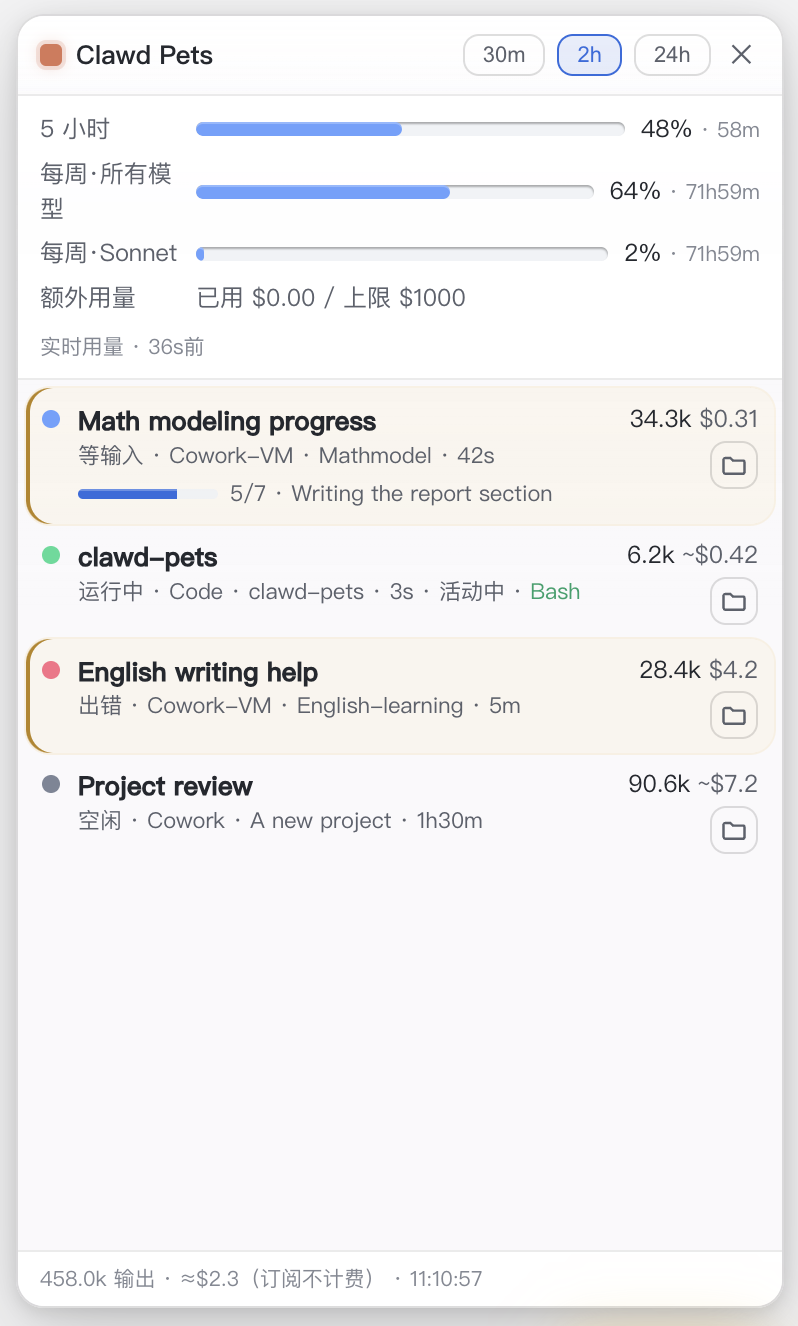
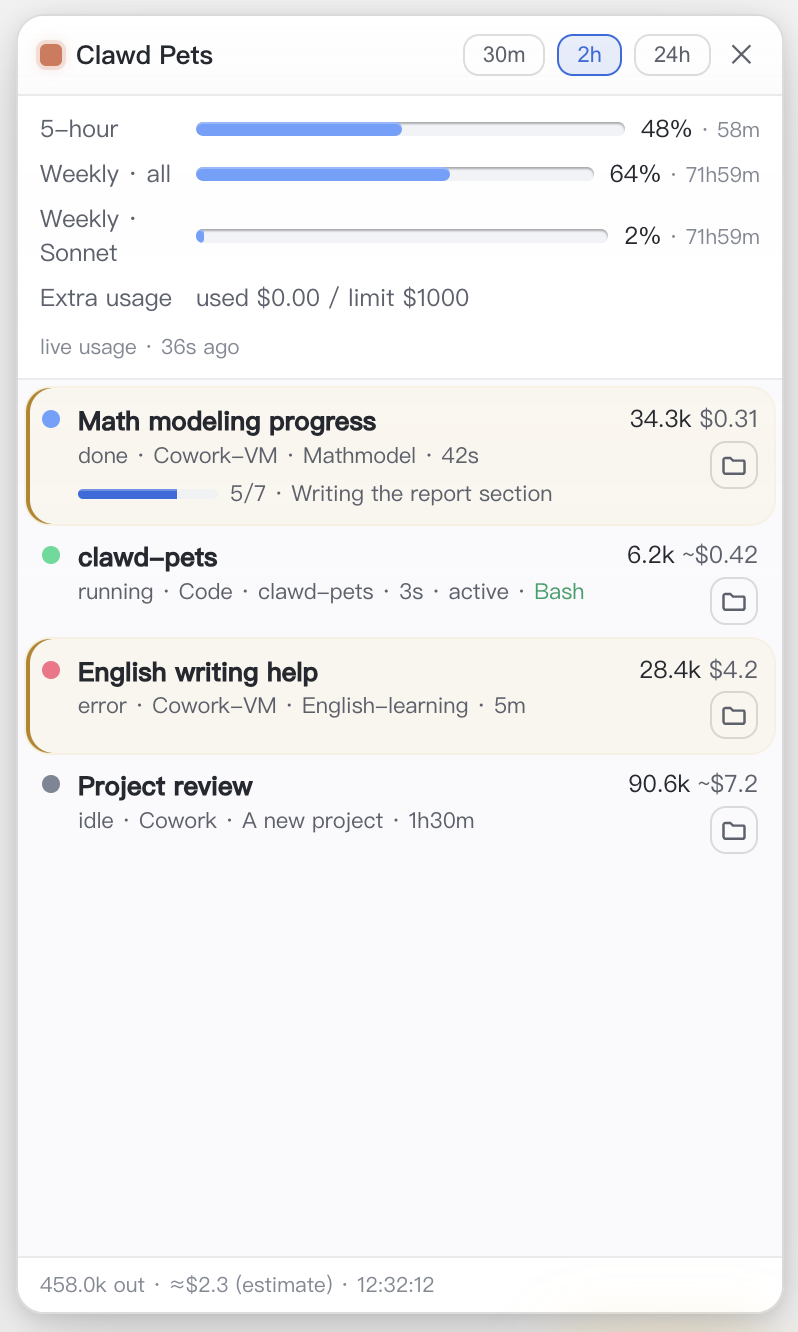
i18n: English-default UI (auto-switches to Chinese on zh systems); regenerate English demo assets
Resolves the English-README / Chinese-UI mismatch. New src/renderer/i18n.js holds EN+ZH strings; locale = navigator.language (renderer) / app.getLocale() (main), defaulting to English and switching to Chinese only on zh-* systems (?lang= overrides for asset generation). All user-visible strings in renderer.js, index.html and main.js (state labels, bubbles, panel, quota, footer, tray menu, tooltips, notifications) now route through the dictionary. demo.gif and panel.png regenerated in English so the international-facing README is consistent; Chinese users (incl. the maintainer) still get a fully Chinese UI automatically.

diff --git a/src/renderer/renderer.js b/src/renderer/renderer.js
@@ -44,29 +44,29 @@ function petAnim(frames, opts) { if (motionOff) return; const m = $('#mascot'); 
 function reactCelebrate() { petAnim([{ transform: 'translateY(0)' }, { transform: 'translateY(-14px)' }, { transform: 'translateY(0)' }, { transform: 'translateY(-6px)' }, { transform: 'translateY(0)' }], { duration: 640, easing: 'cubic-bezier(.3,1.5,.5,1)' }); }
 function reactWiggle() { petAnim([{ transform: 'rotate(0)' }, { transform: 'rotate(-5deg)' }, { transform: 'rotate(4deg)' }, { transform: 'rotate(-2deg)' }, { transform: 'rotate(0)' }], { duration: 440, easing: 'ease-out' }); }
 
-function phaseVerb(tool) {   // 工具名 → 人话阶段
-  if (!tool || tool === '-') return '处理中';
+function phaseVerb(tool) {   // 工具名 → 人话阶段（i18n）
+  if (!tool || tool === '-') return T.phaseDefault;
   tool = String(tool).replace(/^mcp__[a-z0-9]+__/i, '').replace(/^mcp__/i, '');   // 去掉 mcp 前缀
   const t = tool.toLowerCase();
-  if (/bash|shell|command|exec|\brun\b/.test(t)) return '运行命令';
-  if (/edit|write|create|apply|patch|str_replace|notebook/.test(t)) return '写改动';
-  if (/read|grep|glob|^ls|cat|search/.test(t)) return '读取/检索';
-  if (/test|pytest|jest|vitest/.test(t)) return '跑测试';
-  if (/web|fetch|http|browser|preview|screenshot|snapshot|navigate|click|fill/.test(t)) return '联网/浏览';
-  if (/todo|plan/.test(t)) return '整理计划';
+  if (/bash|shell|command|exec|\brun\b/.test(t)) return T.phaseRun;
+  if (/edit|write|create|apply|patch|str_replace|notebook/.test(t)) return T.phaseEdit;
+  if (/read|grep|glob|^ls|cat|search/.test(t)) return T.phaseRead;
+  if (/test|pytest|jest|vitest/.test(t)) return T.phaseTest;
+  if (/web|fetch|http|browser|preview|screenshot|snapshot|navigate|click|fill/.test(t)) return T.phaseWeb;
+  if (/todo|plan/.test(t)) return T.phasePlan;
   return tool;
 }
 function bubbleSpec(r) {
-  const T = r.title;
+  const nm = r.title;
   switch (r.state.key) {
-    case 'ERROR': return { icon: 'error', text: `${T} 出错了`, cls: 'b-err', persistent: true };
-    case 'RATE': return { icon: 'rate', text: `${T} 触发限流，等额度恢复`, cls: 'b-err', persistent: true };
-    case 'WAIT': return { icon: 'wait', text: `${T} 在等你确认`, cls: 'b-wait', persistent: true };
-    case 'AWAITING': return { icon: 'done', text: `${T} 完成`, cls: 'b-done', persistent: false, linger: 6500 };   // 完成：短驻后离栈
+    case 'ERROR': return { icon: 'error', text: T.bErr(nm), cls: 'b-err', persistent: true };
+    case 'RATE': return { icon: 'rate', text: T.bRate(nm), cls: 'b-err', persistent: true };
+    case 'WAIT': return { icon: 'wait', text: T.bWait(nm), cls: 'b-wait', persistent: true };
+    case 'AWAITING': return { icon: 'done', text: T.bDone(nm), cls: 'b-done', persistent: false, linger: 6500 };   // 完成：短驻后离栈
     case 'RUNNING': {
       const act = r.activity || (r.tool ? phaseVerb(r.tool) : null);        // 工具动作：Bash 描述 / 读取文件名 / 检索…
-      const primary = r.think || act || '思考中…';                          // 主行=当前思考叙述(其次工具动作)
-      const sub = (act && r.think) ? `${T} · ${act}` : T;                   // 副行=任务名(· 工具动作)
+      const primary = r.think || act || T.think;                            // 主行=当前思考叙述(其次工具动作)
+      const sub = (act && r.think) ? `${nm} · ${act}` : nm;                 // 副行=任务名(· 工具动作)
       return { icon: r.tool ? 'working' : 'thinking', text: primary, sub, cls: r.tool ? 'b-run' : 'b-think', persistent: true };   // 运行：常驻 live 行，随思考/活动原地更新
     }
   }
@@ -144,7 +144,7 @@ function computeDesired(d) {   // 算出当前该显示哪些行（每个 speaka
   if (cand.length > MAX_ROWS) {
     const head = cand.slice(0, MAX_ROWS - 1), dropped = cand.slice(MAX_ROWS - 1);
     for (const x of dropped) if (isShort(x.spec)) dismissed.set(x.key, x.sig);   // 被挤进折叠的短驻行视作已播，避免腾位后重弹
-    head.push({ key: '__more__', weight: -1, spec: { icon: 'folder', text: `还有 ${dropped.length} 个进行中`, cls: 'b-more', persistent: true }, sig: '__more__:' + dropped.length });
+    head.push({ key: '__more__', weight: -1, spec: { icon: 'folder', text: T.more(dropped.length), cls: 'b-more', persistent: true }, sig: '__more__:' + dropped.length });
     return head;
   }
   return cand;
@@ -330,12 +330,19 @@ if (window.api && window.api.setIgnore) {
 document.querySelectorAll('.chip').forEach((c) =>
   c.addEventListener('click', () => window.api.setWindow(Number(c.dataset.win))));
 
+(function initI18n() {   // 用所选语言覆盖 index.html 里的静态英文默认（zh 系统→中文）
+  const rl = document.querySelector('#rl-line .lbl'); if (rl) rl.textContent = T.rlLabel;
+  const c = $('#collapse'); if (c) c.title = T.tCollapse;
+  const m = $('#stack-min'); if (m) { m.title = T.tMinimize; m.setAttribute('aria-label', T.tMinimize); }
+  const g = $('#resize-grip'); if (g) g.title = T.tResize;
+})();
+
 function renderPet(d) {
   taskMood = d.mascot; applyMood();
   const b = $('#badge');
   if (d.needsCount > 0) { b.textContent = d.needsCount; b.classList.add('show'); }
   else b.classList.remove('show');
-  $('#pet').title = `${d.rows.length} 个会话 · ${d.needsCount} 需要你 · 出 ${fmtN(d.agg.out)} tok`;
+  $('#pet').title = T.petTitle(d.rows.length, d.needsCount, fmtN(d.agg.out));
 }
 
 function renderPanel(d) {
@@ -346,7 +353,7 @@ function renderPanel(d) {
 
   // 任务列表
   const ul = $('#tasks'); ul.innerHTML = '';
-  if (!d.rows.length) { ul.innerHTML = '<li class="empty">窗口内无活跃会话</li>'; }
+  if (!d.rows.length) { ul.innerHTML = `<li class="empty">${esc(T.empty)}</li>`; }
   for (const r of d.rows) {
     const li = document.createElement('li');
     li.className = 'task' + (r.attention ? ' attn' : '');
@@ -359,29 +366,29 @@ function renderPanel(d) {
     li.innerHTML =
       `<span class="sdot" style="background:${color}"></span>`
       + `<div class="t-main"><div class="t-title">${esc(r.title)}</div>`
-      + `<div class="t-meta">${r.state.label} · ${esc(r.src)} · ${esc(r.projectShort)} · ${fmtIdle(r.idleSec)}${r.live ? ' · 活动中' : ''}${r.stale ? ' · 久未处理' : ''}${toolTxt}</div>${todo}</div>`
+      + `<div class="t-meta">${esc(T.state[r.state.key] || r.state.label)} · ${esc(r.src)} · ${esc(r.projectShort)} · ${fmtIdle(r.idleSec)}${r.live ? ' · ' + esc(T.active) : ''}${r.stale ? ' · ' + esc(T.stale) : ''}${toolTxt}</div>${todo}</div>`
       + `<div class="t-right"><div class="t-usage">${fmtN(r.usage.out)} <span class="dim">${fmtCost(r.usage.cost, r.usage.costReal)}</span></div>`
-      + `${r.project ? `<button class="openbtn" title="打开项目目录">${ICONS.folder}</button>` : ''}</div>`;
+      + `${r.project ? `<button class="openbtn" title="${esc(T.openDir)}">${ICONS.folder}</button>` : ''}</div>`;
     if (r.project) li.querySelector('.openbtn').addEventListener('click', () => window.api.openPath(r.project));
     ul.appendChild(li);
   }
   // 聚合用量挪到底部、次要呈现（成本仅按单价估算，订阅不计费）；实时用量失败也只在此低调提示
   const liveFail = d.quota && !d.quota.ok;
-  $('#panel-foot').textContent = `${fmtN(d.agg.out)} 输出 · ≈${fmtCost(d.agg.cost, true)}（订阅不计费）`
-    + (liveFail ? ' · 实时用量未取到' : '') + ` · ${new Date(d.generatedAt).toLocaleTimeString()}`;
+  $('#panel-foot').textContent = `${fmtN(d.agg.out)} ${T.out} · ≈${fmtCost(d.agg.cost, true)} (${T.estimate})`
+    + (liveFail ? ' · ' + T.liveFail : '') + ` · ${new Date(d.generatedAt).toLocaleTimeString()}`;
 }
 
-const Q_BUCKETS = [['five_hour', '5 小时'], ['seven_day', '每周·所有模型'], ['seven_day_sonnet', '每周·Sonnet'], ['seven_day_opus', '每周·Opus'], ['seven_day_cowork', '每周·Cowork']];
+const Q_BUCKETS = ['five_hour', 'seven_day', 'seven_day_sonnet', 'seven_day_opus', 'seven_day_cowork'];   // 标签经 T.qb 本地化
 function qColor(u) { return u >= 90 ? '#fb6f86' : u >= 70 ? '#f5c451' : '#6aa1ff'; }   // 对齐 CSS --err/--warn/--accent
 function quotaAlert(d) {   // 返回最严重的 bucket（util≥90 才算告急），否则 null
   const q = d && d.quota; if (!q || !q.ok || !q.quota) return null;
   let worst = null;
-  for (const [k, label] of Q_BUCKETS) { const bk = q.quota[k]; if (bk && bk.util >= 90 && (!worst || bk.util > worst.util)) worst = { util: Math.round(bk.util), label, resetsAt: bk.resetsAt }; }
+  for (const k of Q_BUCKETS) { const bk = q.quota[k]; if (bk && bk.util >= 90 && (!worst || bk.util > worst.util)) worst = { util: Math.round(bk.util), label: T.qb[k], resetsAt: bk.resetsAt }; }
   return worst;
 }
 function quotaText(a) {
   const remain = a.resetsAt ? Date.parse(a.resetsAt) - Date.now() : 0;
-  return `${a.label}配额已用 ${a.util}%` + (remain > 0 ? ` · ${fmtIdle(remain / 1000)}后重置` : '');
+  return T.quotaUsed(a.label, a.util, remain > 0 ? fmtIdle(remain / 1000) : '');
 }
 function applyQuota(d) { app.dataset.quota = quotaAlert(d) ? 'critical' : ''; }   // 任一 bucket≥90% → 桌宠光晕转红
 function renderQuota(d) {
@@ -389,26 +396,26 @@ function renderQuota(d) {
   const q = d.quota;
   if (q && q.ok && q.quota) {                          // 实时配额条（最有用的视图）
     rl.style.display = 'none';
-    for (const [k, label] of Q_BUCKETS) {
+    for (const k of Q_BUCKETS) {
       const b = q.quota[k]; if (!b) continue;
       const u = Math.round(b.util);
       const remain = b.resetsAt ? Date.parse(b.resetsAt) - Date.now() : 0;
       box.insertAdjacentHTML('beforeend',
-        `<div class="q-row"><span class="qlbl">${label}</span>`
+        `<div class="q-row"><span class="qlbl">${esc(T.qb[k])}</span>`
         + `<div class="q-bar"><i style="width:${Math.min(100, u)}%;background:${qColor(u)}"></i></div>`
-        + `<span class="q-val">${u}%<span class="q-reset"> · ${remain > 0 ? fmtIdle(remain / 1000) : '重置'}</span></span></div>`);
+        + `<span class="q-val">${u}%<span class="q-reset"> · ${remain > 0 ? fmtIdle(remain / 1000) : T.reset}</span></span></div>`);
     }
     const ex = q.quota.extra_usage;
     if (ex && ex.is_enabled) box.insertAdjacentHTML('beforeend',
-      `<div class="q-row"><span class="qlbl">额外用量</span><span class="dim" style="grid-column:2/4">已用 $${(ex.used_credits || 0).toFixed(2)} / 上限 $${ex.monthly_limit}</span></div>`);
-    box.insertAdjacentHTML('beforeend', `<div class="q-reset" style="margin-top:3px">实时用量 · ${fmtIdle((Date.now() - q.fetchedAt) / 1000)}前</div>`);
-  } else if (d.rl) {                                   // 无实时配额条但有本地 5h 读数 → 只显这一行；不再有"未取到"长说明/"暂无读数"空行
+      `<div class="q-row"><span class="qlbl">${esc(T.extra)}</span><span class="dim" style="grid-column:2/4">${esc(T.used)} $${(ex.used_credits || 0).toFixed(2)} / ${esc(T.limit)} $${ex.monthly_limit}</span></div>`);
+    box.insertAdjacentHTML('beforeend', `<div class="q-reset" style="margin-top:3px">${esc(T.liveAge(fmtIdle((Date.now() - q.fetchedAt) / 1000)))}</div>`);
+  } else if (d.rl) {                                   // 无实时配额条但有本地 5h 读数 → 只显这一行
     rl.style.display = '';
     const ok = d.rl.status === 'allowed' && !d.rl.isUsingOverage;
     $('#rl-dot').className = 'dot ' + (ok ? 'ok' : 'warn');
     const remain = d.rl.resetsAt * 1000 - Date.now();
-    $('#rl-text').textContent = `${d.rl.status}${d.rl.isUsingOverage ? ' [超额]' : ''} · 重置 ${clock(d.rl.resetsAt)}`
-      + (remain > 0 ? ` (${fmtIdle(remain / 1000)})` : ' (已重置)');
+    $('#rl-text').textContent = `${d.rl.status}${d.rl.isUsingOverage ? ' [' + T.overage + ']' : ''} · ${T.reset} ${clock(d.rl.resetsAt)}`
+      + (remain > 0 ? ` (${fmtIdle(remain / 1000)})` : ` (${T.wasReset})`);
   } else {
     rl.style.display = 'none';
   }
@@ -435,7 +442,7 @@ if (window.api && window.api.onUpdate) {
     } },
     rows: [
       { key: '1', src: 'Cowork-VM', title: 'Math modeling progress', projectShort: 'Mathmodel', project: '/x', state: { key: 'AWAITING', label: '等输入' }, tool: null, idleSec: 42, live: false, attention: true, usage: { out: 34260, cost: 0.31, costReal: true }, todos: { total: 7, done: 5, current: 'Writing the report section' }, model: 'opus-4-8' },
-      { key: '2', src: 'Code', title: 'clawd-pets', projectShort: 'clawd-pets', project: '/y', state: { key: 'RUNNING', label: '运行中' }, tool: 'Bash', activity: 'Restart Electron and verify clean boot', think: '现在重构 renderer：单气泡 → 实时行栈，每任务一行显示其思考与活动', idleSec: 3, live: true, attention: false, usage: { out: 6170, cost: 0.42, costReal: false }, todos: null, model: 'opus-4-8' },
+      { key: '2', src: 'Code', title: 'clawd-pets', projectShort: 'clawd-pets', project: '/y', state: { key: 'RUNNING', label: '运行中' }, tool: 'Bash', activity: 'Restart Electron and verify clean boot', think: 'Refactoring renderer: single bubble → live status stack, one row per task', idleSec: 3, live: true, attention: false, usage: { out: 6170, cost: 0.42, costReal: false }, todos: null, model: 'opus-4-8' },
       { key: '3', src: 'Cowork-VM', title: 'English writing help', projectShort: 'English-learning', project: '/z', state: { key: 'ERROR', label: '出错' }, tool: null, idleSec: 300, live: false, attention: true, usage: { out: 28400, cost: 4.2, costReal: true }, todos: null, model: 'sonnet-4-6' },
       { key: '4', src: 'Cowork', title: 'Project review', projectShort: 'A new project', project: '/w', state: { key: 'IDLE', label: '空闲' }, tool: null, idleSec: 5400, live: false, attention: false, usage: { out: 90600, cost: 7.2, costReal: false }, todos: null, model: 'opus-4-8' },
     ],

diff --git a/src/main.js b/src/main.js
@@ -10,6 +10,33 @@ const store = require('./store');
 // 不因显示名带空格而分裂出两个设置目录。必须在 app ready 前调用。
 app.setName('clawd-pets');
 
+// 主进程 i18n：默认英文（面向国际），系统语言 zh-* → 中文。M 在 app ready 后按 app.getLocale() 选定。
+const TR = {
+  en: {
+    show: 'Show / Hide', range: 'Time range', last30: 'Last 30 min', last2h: 'Last 2 hours', last24h: 'Last 24 hours',
+    refresh: 'Refresh rate', fast: 'Fast (1.5s)', normal: 'Normal (3s)', power: 'Power saver (10s)',
+    size: 'Pet size', small: 'Small', medium: 'Medium', large: 'Large',
+    live: 'Live usage (network · keychain prompt on first use)',
+    notify: 'Notify on attention / error (off by default)',
+    motion: 'Motion (breathing / blink / gaze)', quit: 'Quit',
+    mood: { error: 'error', needs: 'needs you', working: 'running', thinking: 'thinking', done: 'done', idle: 'idle' },
+    tip: (mood, n, needs) => `Clawd Pets · ${mood} · ${n} sessions · ${needs} need you`,
+    nNeeds: '✋ Needs you', nErr: '🔴 Error', nRate: '⏳ Rate limited',
+  },
+  zh: {
+    show: '显示 / 隐藏', range: '窗口范围', last30: '最近 30 分钟', last2h: '最近 2 小时', last24h: '最近 24 小时',
+    refresh: '刷新频率', fast: '快 (1.5s)', normal: '正常 (3s)', power: '省电 (10s)',
+    size: '桌宠大小', small: '小', medium: '中', large: '大',
+    live: '实时用量 (联网·首次读钥匙串需授权)',
+    notify: '需要你/出错时弹系统通知 (默认关·避免与 Claude 重复)',
+    motion: '动效（呼吸/眨眼/视线/反应）', quit: '退出',
+    mood: { error: '出错', needs: '等你确认', working: '运行中', thinking: '思考中', done: '已完成', idle: '空闲' },
+    tip: (mood, n, needs) => `Clawd Pets · ${mood} · ${n} 个会话 · ${needs} 需要你`,
+    nNeeds: '✋ 需要你', nErr: '🔴 出错', nRate: '⏳ 触发限流',
+  },
+};
+let M = TR.en;
+
 let win, tray;
 const prevStates = new Map();
 let firstTick = true;
@@ -93,7 +120,7 @@ function createWindow() {
   win.webContents.on('unresponsive', () => { try { win && !win.isDestroyed() && win.reload(); } catch {} });
 }
 
-function moodText(m) { return m === 'error' ? '出错' : m === 'needs' ? '等你确认' : m === 'working' ? '运行中' : m === 'thinking' ? '思考中' : m === 'done' ? '已完成' : '空闲'; }
+function moodText(m) { return M.mood[m] || M.mood.idle; }
 function notify(title, body) { try { new Notification({ title, body, silent: false }).show(); } catch {} }
 
 function tick() {
@@ -103,7 +130,7 @@ function tick() {
   if (win && !win.isDestroyed()) win.webContents.send('update', data);
   if (tray) {
     tray.setTitle(data.needsCount ? ` ${data.needsCount}` : '');   // 干净数字角标，仅当有任务需要你；常态只剩单色 Clawd 图标
-    tray.setToolTip(`Clawd Pets · ${moodText(data.mascot)} · ${data.rows.length} 个会话 · ${data.needsCount} 需要你`);
+    tray.setToolTip(M.tip(moodText(data.mascot), data.rows.length, data.needsCount));
   }
   // 状态跃迁 → 通知（首轮只建立基线，不打扰）
   const seen = new Set();
@@ -112,9 +139,9 @@ function tick() {
     const prev = prevStates.get(r.key);
     if (notifyEnabled && !firstTick) {   // 默认关；桌宠气泡是主要提醒，通知仅作可选补充
       const where = r.projectShort && r.projectShort !== r.title ? ` · ${r.projectShort}` : '';
-      if ((prev === 'RUNNING' || prev === 'WAIT') && r.state.key === 'AWAITING') notify('✋ 需要你', r.title + where);
-      else if ((prev === 'RUNNING' || prev === 'WAIT') && r.state.key === 'ERROR') notify('🔴 出错', r.title + where);
-      else if (prev !== 'RATE' && r.state.key === 'RATE') notify('⏳ 触发限流', r.title + where);
+      if ((prev === 'RUNNING' || prev === 'WAIT') && r.state.key === 'AWAITING') notify(M.nNeeds, r.title + where);
+      else if ((prev === 'RUNNING' || prev === 'WAIT') && r.state.key === 'ERROR') notify(M.nErr, r.title + where);
+      else if (prev !== 'RATE' && r.state.key === 'RATE') notify(M.nRate, r.title + where);
     }
     prevStates.set(r.key, r.state.key);
   }
@@ -170,32 +197,32 @@ function buildTray() {
   tray = new Tray(TRAY_IMG);   // 单色 Clawd template 图标；状态用 setTitle 数字角标(tick 里)，常态无文字
   tray.on('click', () => { if (!win) return; win.isVisible() ? win.hide() : win.show(); });
   tray.setContextMenu(Menu.buildFromTemplate([
-    { label: '显示 / 隐藏', click: () => win && (win.isVisible() ? win.hide() : win.show()) },
+    { label: M.show, click: () => win && (win.isVisible() ? win.hide() : win.show()) },
     { type: 'separator' },
-    { label: '窗口范围', submenu: [
-      { label: '最近 30 分钟', type: 'radio', checked: windowMin === 30, click: () => setWindowMin(30) },
-      { label: '最近 2 小时', type: 'radio', checked: windowMin === 120, click: () => setWindowMin(120) },
-      { label: '最近 24 小时', type: 'radio', checked: windowMin === 1440, click: () => setWindowMin(1440) },
+    { label: M.range, submenu: [
+      { label: M.last30, type: 'radio', checked: windowMin === 30, click: () => setWindowMin(30) },
+      { label: M.last2h, type: 'radio', checked: windowMin === 120, click: () => setWindowMin(120) },
+      { label: M.last24h, type: 'radio', checked: windowMin === 1440, click: () => setWindowMin(1440) },
     ] },
-    { label: '刷新频率', submenu: [
-      { label: '快 (1.5s)', type: 'radio', checked: intervalMs === 1500, click: () => { intervalMs = 1500; store.set('intervalMs', 1500); restartTimer(); } },
-      { label: '正常 (3s)', type: 'radio', checked: intervalMs === 3000, click: () => { intervalMs = 3000; store.set('intervalMs', 3000); restartTimer(); } },
-      { label: '省电 (10s)', type: 'radio', checked: intervalMs === 10000, click: () => { intervalMs = 10000; store.set('intervalMs', 10000); restartTimer(); } },
+    { label: M.refresh, submenu: [
+      { label: M.fast, type: 'radio', checked: intervalMs === 1500, click: () => { intervalMs = 1500; store.set('intervalMs', 1500); restartTimer(); } },
+      { label: M.normal, type: 'radio', checked: intervalMs === 3000, click: () => { intervalMs = 3000; store.set('intervalMs', 3000); restartTimer(); } },
+      { label: M.power, type: 'radio', checked: intervalMs === 10000, click: () => { intervalMs = 10000; store.set('intervalMs', 10000); restartTimer(); } },
     ] },
-    { label: '桌宠大小', submenu: [
-      { label: '小', type: 'radio', checked: petPx === 100, click: () => setPet(100) },
-      { label: '中', type: 'radio', checked: petPx === 120, click: () => setPet(120) },
-      { label: '大', type: 'radio', checked: petPx === 156, click: () => setPet(156) },
+    { label: M.size, submenu: [
+      { label: M.small, type: 'radio', checked: petPx === 100, click: () => setPet(100) },
+      { label: M.medium, type: 'radio', checked: petPx === 120, click: () => setPet(120) },
+      { label: M.large, type: 'radio', checked: petPx === 156, click: () => setPet(156) },
     ] },
     { type: 'separator' },
-    { label: '实时用量 (联网·首次读钥匙串需授权)', type: 'checkbox', checked: liveUsage,
+    { label: M.live, type: 'checkbox', checked: liveUsage,
       click: (mi) => { liveUsage = mi.checked; store.set('liveUsage', liveUsage); liveUsage ? startUsage() : stopUsage(); tick(); } },
-    { label: '需要你/出错时弹系统通知 (默认关·避免与 Claude 重复)', type: 'checkbox', checked: notifyEnabled,
+    { label: M.notify, type: 'checkbox', checked: notifyEnabled,
       click: (mi) => { notifyEnabled = mi.checked; store.set('notifyEnabled', notifyEnabled); } },
-    { label: '动效（呼吸/眨眼/视线/反应）', type: 'checkbox', checked: motionOn,
+    { label: M.motion, type: 'checkbox', checked: motionOn,
       click: (mi) => { motionOn = mi.checked; store.set('motionOn', motionOn); if (win) win.webContents.send('set-motion', motionOn); } },
     { type: 'separator' },
-    { label: '退出', click: () => app.quit() },
+    { label: M.quit, click: () => app.quit() },
   ]));
 }
 
@@ -219,6 +246,7 @@ app.on('second-instance', () => { if (win && !win.isDestroyed()) { win.show(); w
 
 app.whenReady().then(() => {
   if (!isPrimary) return;
+  M = TR[/^zh/i.test(app.getLocale() || '') ? 'zh' : 'en'];   // 系统语言决定托盘/通知语言（默认英文，zh-* → 中文）
   store.init(app.getPath('userData'));   // 读回上次设置(窗口范围/刷新率/实时用量/通知/动效/桌宠大小/位置)
   // 读盘加白名单/范围校验，防 settings.json 被手改/损坏成 0/负值/NaN 冻死应用
   const sw = store.get('windowMin'); if ([30, 120, 1440].includes(sw)) windowMin = sw;

diff --git a/src/renderer/i18n.js b/src/renderer/i18n.js
@@ -1,0 +1,60 @@
+'use strict';
+/*
+ * 渲染端 i18n。默认英文（面向国际/外网）；系统语言为中文(zh-*)时切中文。
+ * 可用 ?lang=en|zh 覆盖（用于生成英文演示图）。在 renderer.js 之前加载，暴露 window.T / window.LANG。
+ */
+(function () {
+  var override = (location.search.match(/[?&]lang=([a-z-]+)/i) || [])[1];
+  var nav = (override || navigator.language || 'en').toLowerCase();
+  var lang = /^zh/.test(nav) ? 'zh' : 'en';
+  var DICT = {
+    en: {
+      think: 'Thinking…',
+      bErr: function (t) { return t + ' errored'; },
+      bRate: function (t) { return t + ' hit a rate limit'; },
+      bWait: function (t) { return t + ' needs you'; },
+      bDone: function (t) { return t + ' done'; },
+      more: function (n) { return '+' + n + ' more running'; },
+      phaseDefault: 'Working',
+      phaseRun: 'Running command', phaseEdit: 'Writing changes', phaseRead: 'Reading / searching',
+      phaseTest: 'Running tests', phaseWeb: 'Browsing', phasePlan: 'Planning',
+      state: { RUNNING: 'running', WAIT: 'waiting', AWAITING: 'done', IDLE: 'idle', ERROR: 'error', RATE: 'rate-limited' },
+      rlLabel: '5h limit', empty: 'No active sessions in this window',
+      active: 'active', stale: 'stale',
+      out: 'out', estimate: 'estimate', liveFail: 'live usage unavailable',
+      qb: { five_hour: '5-hour', seven_day: 'Weekly · all', seven_day_sonnet: 'Weekly · Sonnet', seven_day_opus: 'Weekly · Opus', seven_day_cowork: 'Weekly · Cowork' },
+      extra: 'Extra usage', used: 'used', limit: 'limit',
+      liveAge: function (a) { return 'live usage · ' + a + ' ago'; },
+      reset: 'reset', wasReset: 'reset', overage: 'over',
+      petTitle: function (n, needs, out) { return n + ' sessions · ' + needs + ' need you · ' + out + ' tok out'; },
+      quotaUsed: function (label, util, remainStr) { return label + ' quota ' + util + '% used' + (remainStr ? ' · resets in ' + remainStr : ''); },
+      tCollapse: 'Collapse', tMinimize: 'Minimize (Clawd only)', tResize: 'Drag to resize Clawd',
+      openDir: 'Open project folder',
+    },
+    zh: {
+      think: '思考中…',
+      bErr: function (t) { return t + ' 出错了'; },
+      bRate: function (t) { return t + ' 触发限流，等额度恢复'; },
+      bWait: function (t) { return t + ' 在等你确认'; },
+      bDone: function (t) { return t + ' 完成'; },
+      more: function (n) { return '还有 ' + n + ' 个进行中'; },
+      phaseDefault: '处理中',
+      phaseRun: '运行命令', phaseEdit: '写改动', phaseRead: '读取/检索',
+      phaseTest: '跑测试', phaseWeb: '联网/浏览', phasePlan: '整理计划',
+      state: { RUNNING: '运行中', WAIT: '等你确认', AWAITING: '等输入', IDLE: '空闲', ERROR: '出错', RATE: '限流' },
+      rlLabel: '5h 限额', empty: '窗口内无活跃会话',
+      active: '活动中', stale: '久未处理',
+      out: '输出', estimate: '订阅不计费', liveFail: '实时用量未取到',
+      qb: { five_hour: '5 小时', seven_day: '每周·所有模型', seven_day_sonnet: '每周·Sonnet', seven_day_opus: '每周·Opus', seven_day_cowork: '每周·Cowork' },
+      extra: '额外用量', used: '已用', limit: '上限',
+      liveAge: function (a) { return '实时用量 · ' + a + '前'; },
+      reset: '重置', wasReset: '已重置', overage: '超额',
+      petTitle: function (n, needs, out) { return n + ' 个会话 · ' + needs + ' 需要你 · 出 ' + out + ' tok'; },
+      quotaUsed: function (label, util, remainStr) { return label + '配额已用 ' + util + '%' + (remainStr ? ' · ' + remainStr + '后重置' : ''); },
+      tCollapse: '收起', tMinimize: '最小化（只看 Clawd）', tResize: '拖动调整 Clawd 大小',
+      openDir: '打开项目目录',
+    },
+  };
+  window.LANG = lang;
+  window.T = DICT[lang];
+})();

diff --git a/src/renderer/index.html b/src/renderer/index.html
@@ -16,12 +16,12 @@
       <button class="chip" data-win="30">30m</button>
       <button class="chip" data-win="120">2h</button>
       <button class="chip" data-win="1440">24h</button>
-      <button id="collapse" title="收起">✕</button>
+      <button id="collapse" title="Collapse">✕</button>
     </header>
 
     <div id="summary">
       <div class="usage-line" id="rl-line" style="display:none">
-        <span class="lbl">5h 限额</span>
+        <span class="lbl">5h limit</span>
         <span id="rl-dot" class="dot"></span>
         <span id="rl-text" class="dim">—</span>
       </div>
@@ -34,7 +34,7 @@
 
   <!-- 状态行栈（对标 Codex Pets：每个进行中任务一行，实时显示"在做什么 / 需要你"） -->
   <div id="stack">
-    <button id="stack-min" title="最小化（只看 Clawd）" aria-label="最小化">
+    <button id="stack-min" title="Minimize (Clawd only)" aria-label="Minimize">
       <svg viewBox="0 0 12 12" fill="none" aria-hidden="true"><path d="M3 6h6" stroke="currentColor" stroke-width="1.6" stroke-linecap="round"/></svg>
     </button>
   </div>
@@ -57,12 +57,13 @@
         </g>
       </svg>
     </div>
-    <div id="resize-grip" title="拖动调整 Clawd 大小">
+    <div id="resize-grip" title="Drag to resize Clawd">
       <svg viewBox="0 0 12 12" fill="none" aria-hidden="true"><path d="M10.5 4.5 4.5 10.5M10.5 8 8 10.5" stroke="currentColor" stroke-width="1.4" stroke-linecap="round"/></svg>
     </div>
   </div>
 
 </div>
-<script src="renderer.js?v=24"></script>
+<script src="i18n.js?v=1"></script>
+<script src="renderer.js?v=25"></script>
 </body>
 </html>

diff --git a/scripts/gen-demo-gif.js b/scripts/gen-demo-gif.js
@@ -33,7 +33,7 @@ app.whenReady().then(async () => {
   // 1) 初始栈（呼吸 + 运行中转圈 + 三气泡）
   await grab(16, 70);
   // 2) 思考链实时更新（运行中任务换一句叙述 + 推进 todo）——展示"实时状态栈"
-  await inject(win, `(function(){ if(typeof last!=='undefined'&&last.rows&&last.rows[1]){ last.rows[1].think='正在验证打包产物：asar 内图标与源一致'; last.rows[1].activity='Verify packaged icon matches source'; renderPet(last); detectTransitions(last); updateMode(last);} })()`);
+  await inject(win, `(function(){ if(typeof last!=='undefined'&&last.rows&&last.rows[1]){ last.rows[1].think='Verifying packaged build: asar icon matches source'; last.rows[1].activity='Verify packaged icon matches source'; renderPet(last); detectTransitions(last); updateMode(last);} })()`);
   await grab(14, 70);
   // 3) 运行中任务完成 → 变绿"完成"进栈
   await inject(win, `(function(){ if(typeof last!=='undefined'&&last.rows&&last.rows[1]){ last.rows[1].state={key:'AWAITING',label:'等输入'}; last.rows[1].think=null; last.rows[1].attention=true; last.rows[1].live=false; renderPet(last); detectTransitions(last); updateMode(last);} })()`);
